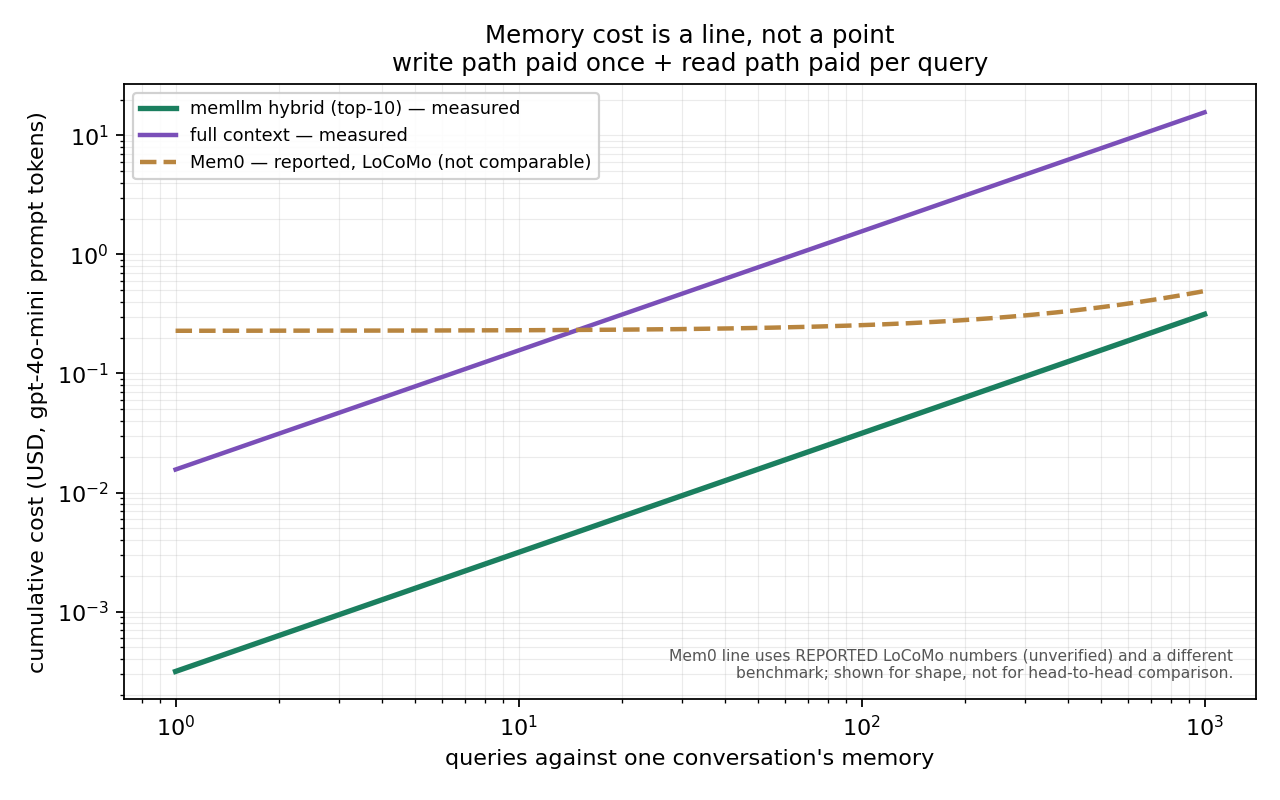
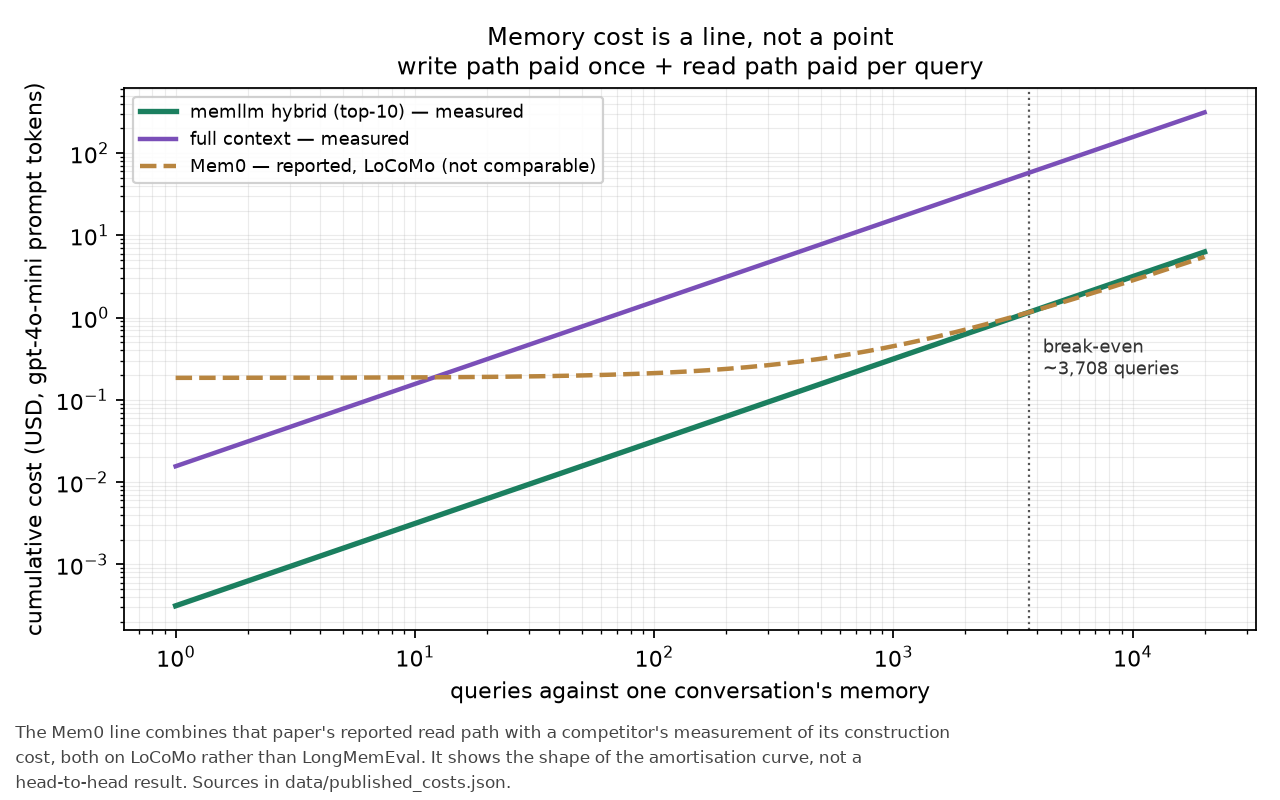
Report granularity in the cost table, and stop token stats overwriting itself
The cost table unpacked (name, granularity) and printed only the name, so
RESULTS.md showed three identical 'random' rows, three 'bm25' rows and so
on, with no way to tell which unit size produced which timing.

measure_token_stats.py wrote results/token_stats.json whatever the
granularity, so measuring sessions silently replaced the turn statistics
that make_cost_curve.py reads -- repricing the headline figure with units
10x larger than the ones it reports. The filename now carries the
granularity and the figure refuses a mismatch. All three are committed,
which also backs the ~40x unit-size spread the README describes.

Two docstrings contradicted the repo's own findings: baselines.py called
the oracle an upper bound that nothing should beat, which RESULTS.md
disproves, and retrieval_metrics.py still said end-to-end answers needed
a judge. Also two unused imports and two bare asserts on a public
contract.

diff --git a/scripts/make_report.py b/scripts/make_report.py
@@ -27,7 +27,7 @@ def load_all(results_dir: Path) -> dict[str, dict]:
         if not isinstance(payload, dict):
             continue
         for name, run in payload.items():
-            # results/ also holds non-run artifacts (token_stats.json); a run
+            # results/ also holds non-run artifacts (token_stats_*.json); a run
             # payload is a dict keyed by retriever name carrying "metrics".
             if not isinstance(run, dict) or "metrics" not in run:
                 continue
@@ -306,17 +306,20 @@ def main() -> None:
     print("\n## Cost, split by write path and read path\n")
     print("The write path is paid once per conversation; the read path is paid "
           "per query. Published memory systems report the read path only.\n")
-    print("| system | write ms/conv | write LLM calls | write LLM tokens | "
-          "read ms/query | read LLM calls |")
-    print("|---|---|---|---|---|---|")
+    print("| system | granularity | write ms/conv | write LLM calls | "
+          "write LLM tokens | read ms/query | read LLM calls |")
+    print("|---|---|---|---|---|---|---|")
     for key in sorted(runs, key=sort_key):
         r = runs[key]
         c = r.get("cost_per_example", {})
         tot = r.get("cost_total", {})
+        # Without the granularity column this table printed three identical
+        # `random` rows, three `bm25` rows, and so on, with no way to tell which
+        # unit size produced which timing.
         name, gran = key.split("|")
         read_calls = tot.get("read", {}).get("llm_calls", 0)
         n = max(1, r["metrics"]["n_total"])
-        print(f"| {name} | {c.get('write_wall_clock_s',0)*1000:.0f} | "
+        print(f"| {name} | {gran} | {c.get('write_wall_clock_s',0)*1000:.0f} | "
               f"{c.get('write_llm_calls',0):.1f} | "
               f"{c.get('write_llm_tokens',0):.0f} | "
               f"{c.get('read_wall_clock_s',0)*1000:.0f} | "

diff --git a/memllm/retrieval/baselines.py b/memllm/retrieval/baselines.py
@@ -1,8 +1,17 @@
 """Reference points that bound the frontier.
 
-OracleRetriever   -- upper bound on retrieval; any system that beats it has a bug
+OracleRetriever   -- retrieves exactly the gold evidence turns
 RecencyRetriever  -- "just keep the last N turns", the cheapest thing that works
 RandomRetriever   -- lower bound; distinguishes real retrieval from lucky priors
+NoMemoryRetriever -- retrieves nothing; the closed-book floor
+
+Note what the oracle is and is not. It is a ceiling for the *retrieval metrics*
+by construction, since it returns every evidence unit and nothing can score
+higher than 1.000. It is **not** an end-to-end ceiling: it hands the model only
+the turns LongMemEval labelled `has_answer`, which is a smaller prompt than a
+real retriever builds on most questions, so a retriever that also picks up an
+unlabelled turn carrying the answer can beat it -- and does. See "Oracle is not
+a ceiling" in RESULTS.md.
 """
 
 from __future__ import annotations
@@ -15,9 +24,13 @@ from .base import Hit
 
 
 class OracleRetriever:
-    """Returns gold evidence first, then arbitrary filler. Ceiling for the
-    retrieval metric, and the arm that isolates 'can the model answer *given*
-    perfect retrieval' from 'can we find the right memory'."""
+    """Returns gold evidence first, then arbitrary filler.
+
+    Isolates 'can the model answer *given* the labelled evidence' from 'can we
+    find the right memory'. Scores 1.000 on every retrieval metric by
+    construction; see the module docstring for why that does not make it an
+    end-to-end upper bound.
+    """
 
     name = "oracle"
 

diff --git a/scripts/measure_token_stats.py b/scripts/measure_token_stats.py
@@ -1,8 +1,13 @@
 """Measure token statistics of the benchmark so the cost figure uses measured
 inputs rather than assumed ones.
 
-    python scripts/measure_token_stats.py --limit 40 > /dev/null
-    # writes results/token_stats.json
+    python scripts/measure_token_stats.py --limit 100
+    # writes results/token_stats_turn.json
+
+The output filename carries the granularity. It used to default to a single
+`token_stats.json` for every granularity, so measuring sessions overwrote the
+turn statistics that `make_cost_curve.py` reads -- silently repricing the
+headline figure with units 10x larger than the ones it reports.
 """
 
 from __future__ import annotations
@@ -25,8 +30,11 @@ def main() -> None:
     ap.add_argument("--limit", type=int, default=40)
     ap.add_argument("--granularity", default="turn")
     ap.add_argument("--seed", type=int, default=0)
-    ap.add_argument("--out", default="results/token_stats.json")
+    ap.add_argument("--out", default=None,
+                   help="defaults to results/token_stats_<granularity>.json")
     args = ap.parse_args()
+    if args.out is None:
+        args.out = f"results/token_stats_{args.granularity}.json"
 
     examples = stratified_subset(
         load_examples(args.data), args.limit, seed=args.seed

diff --git a/memllm/retrieval/dense.py b/memllm/retrieval/dense.py
@@ -133,7 +133,8 @@ class DenseRetriever:
         ledger: CostLedger,
         question_date: str | None = None,
     ) -> list[Hit]:
-        assert self._emb is not None, "index() must be called first"
+        if self._emb is None:
+            raise RuntimeError("index() must be called before search()")
         q = BGE_QUERY_PREFIX + query if self._use_prefix else query
         with ledger.timer("read"):
             qv = self._encode([q])[0]
@@ -144,6 +145,7 @@ class DenseRetriever:
 
     def scores_for(self, query: str) -> np.ndarray:
         """Full score vector, for use by the hybrid retriever."""
-        assert self._emb is not None
+        if self._emb is None:
+            raise RuntimeError("index() must be called before scores_for()")
         q = BGE_QUERY_PREFIX + query if self._use_prefix else query
         return self._emb @ self._encode([q])[0]

diff --git a/memllm/eval/retrieval_metrics.py b/memllm/eval/retrieval_metrics.py
@@ -1,8 +1,9 @@
 """Judge-free retrieval metrics, using LongMemEval's per-turn `has_answer` labels.
 
 These need no LLM and no API budget, which makes them the load-bearing metrics
-for this project. An LLM judge is only required for end-to-end answer quality,
-and it is validated against hand labels before we trust it.
+for this project. End-to-end answer quality is graded without a judge too --
+see `memllm/eval/grade.py`, whose error rates are measured by
+`memllm/eval/grader_audit.py` rather than assumed.
 """
 
 from __future__ import annotations

diff --git a/scripts/run_retrieval_eval.py b/scripts/run_retrieval_eval.py
@@ -16,7 +16,7 @@ from pathlib import Path
 
 sys.path.insert(0, str(Path(__file__).resolve().parent.parent))
 
-from memllm.cost import CostLedger, count_tokens  # noqa: E402
+from memllm.cost import CostLedger  # noqa: E402
 from memllm.data.loader import (  # noqa: E402
     load_examples,
     stratified_subset,

diff --git a/memllm/retrieval/hybrid.py b/memllm/retrieval/hybrid.py
@@ -6,8 +6,6 @@ compares against only in its weakest form. Still zero LLM calls.
 
 from __future__ import annotations
 
-import numpy as np
-
 from ..cost import CostLedger
 from ..data.loader import MemoryUnit, parse_date
 from .base import Hit, rrf_fuse

diff --git a/RESULTS.md b/RESULTS.md
@@ -31,26 +31,26 @@ Gold labels are LongMemEval's per-turn `has_answer` flags, so these numbers invo
 
 The write path is paid once per conversation; the read path is paid per query. Published memory systems report the read path only.
 
-| system | write ms/conv | write LLM calls | write LLM tokens | read ms/query | read LLM calls |
-|---|---|---|---|---|---|
-| random | 0 | 0.0 | 0 | 0 | 0.0 |
-| random | 0 | 0.0 | 0 | 0 | 0.0 |
-| random | 0 | 0.0 | 0 | 0 | 0.0 |
-| recency | 0 | 0.0 | 0 | 0 | 0.0 |
-| recency | 0 | 0.0 | 0 | 1 | 0.0 |
-| recency | 0 | 0.0 | 0 | 0 | 0.0 |
-| bm25 | 36 | 0.0 | 0 | 0 | 0.0 |
-| bm25 | 40 | 0.0 | 0 | 2 | 0.0 |
-| bm25 | 6 | 0.0 | 0 | 1 | 0.0 |
-| dense | 663 | 0.0 | 0 | 11 | 0.0 |
-| dense | 3020 | 0.0 | 0 | 11 | 0.0 |
-| dense | 1311 | 0.0 | 0 | 11 | 0.0 |
-| hybrid | 699 | 0.0 | 0 | 12 | 0.0 |
-| hybrid | 3075 | 0.0 | 0 | 14 | 0.0 |
-| hybrid | 1311 | 0.0 | 0 | 12 | 0.0 |
-| oracle | 0 | 0.0 | 0 | 0 | 0.0 |
-| oracle | 0 | 0.0 | 0 | 0 | 0.0 |
-| oracle | 0 | 0.0 | 0 | 0 | 0.0 |
+| system | granularity | write ms/conv | write LLM calls | write LLM tokens | read ms/query | read LLM calls |
+|---|---|---|---|---|---|---|
+| random | session | 0 | 0.0 | 0 | 0 | 0.0 |
+| random | turn | 0 | 0.0 | 0 | 0 | 0.0 |
+| random | user_turn | 0 | 0.0 | 0 | 0 | 0.0 |
+| recency | session | 0 | 0.0 | 0 | 0 | 0.0 |
+| recency | turn | 0 | 0.0 | 0 | 1 | 0.0 |
+| recency | user_turn | 0 | 0.0 | 0 | 0 | 0.0 |
+| bm25 | session | 36 | 0.0 | 0 | 0 | 0.0 |
+| bm25 | turn | 40 | 0.0 | 0 | 2 | 0.0 |
+| bm25 | user_turn | 6 | 0.0 | 0 | 1 | 0.0 |
+| dense | session | 663 | 0.0 | 0 | 11 | 0.0 |
+| dense | turn | 3020 | 0.0 | 0 | 11 | 0.0 |
+| dense | user_turn | 1311 | 0.0 | 0 | 11 | 0.0 |
+| hybrid | session | 699 | 0.0 | 0 | 12 | 0.0 |
+| hybrid | turn | 3075 | 0.0 | 0 | 14 | 0.0 |
+| hybrid | user_turn | 1311 | 0.0 | 0 | 12 | 0.0 |
+| oracle | session | 0 | 0.0 | 0 | 0 | 0.0 |
+| oracle | turn | 0 | 0.0 | 0 | 0 | 0.0 |
+| oracle | user_turn | 0 | 0.0 | 0 | 0 | 0.0 |
 
 ## What a memory unit should be
 
